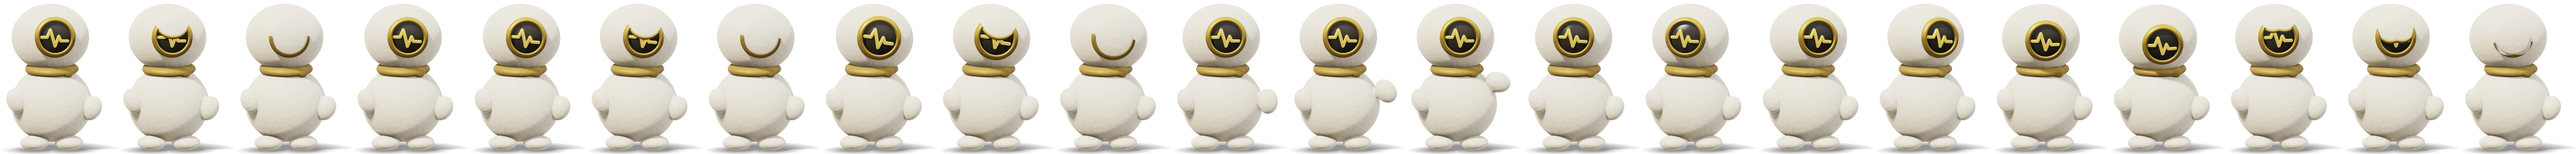
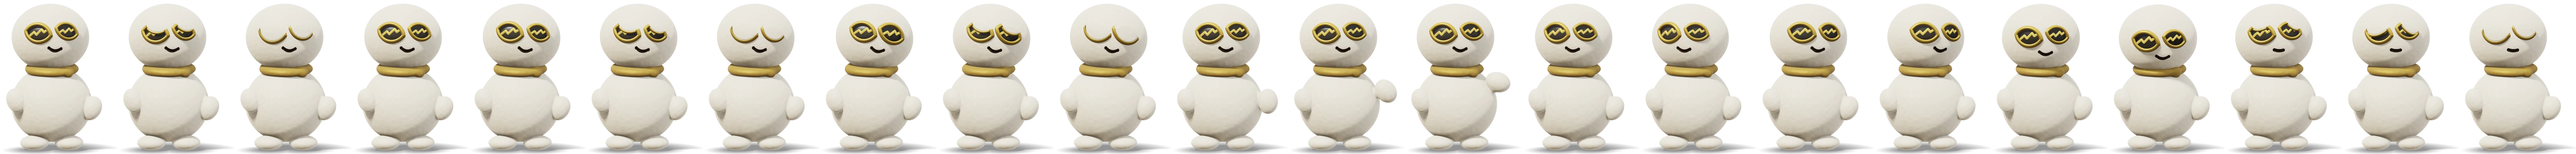
Scout: back to two eyes, and a clean concerned blink
The owner set the Pulse-mark face aside and asked for the two Optic-lens
eyes and smile again. The renderer defaults to that face (SCOUT_FACE=pulse
still reproduces 07e91b3) and the body sprites are re-rendered with it,
keeping the bigger hands and the separate scarf-tail layer, whose strips
are unchanged (--no-tail). The comments in scout.js, styles.css, the test
docstring and the README describe the two eyes again.

The concerned face's closed frame drew a broken lid: the worried slant
moved the lash line out of the lens at one tip (already so in 2deec49).
The slant now fades out over the last 40% of the closure, so a closed eye
is the plain lash line; the open and half-closed concerned frames are
pixel-identical. The renderer's header describes the v2 outputs.

Full suite 5,228 passed; behave2.py 41/41.

Changed region(s): [[0.0, 0.1158, 0.9375, 0.4053], [0.9688, 0.2026, 1.0, 0.2895], [0.9688, 0.3184, 1.0, 0.3763]]

diff --git a/static/components/scout.js b/static/components/scout.js
@@ -1,12 +1,13 @@
 /* Scout: Pulse's mascot.
  *
  * Concept 03 ("Scout") from the user's snowman sheet, rendered in 3D: two
- * ivory clay snowballs, a muted gold scarf blowing in the wind, stub arms and
- * feet, and for a face the Pulse mark itself, the ring and heartbeat on the
- * Pulse button, inset in gold (chosen by the owner over two Optic-lens eyes
- * and a smile). The renders are transparent frames, one sprite per size and
- * density (static/scout/, made by optic-brand/scout/render_scout.py, which
- * also writes frames.json, the order FRAME below copies). Every frame shares
+ * ivory clay snowballs, the Optic aperture inset as each eye with the logo's
+ * chart line raised inside it, a carved smile, a muted gold scarf blowing in
+ * the wind, stub arms and feet. (The Pulse mark was tried as his whole face
+ * and set aside for the two eyes.) The renders are transparent frames, one
+ * sprite per size and density (static/scout/, made by
+ * optic-brand/scout/render_scout.py, which also writes frames.json, the
+ * order FRAME below copies). Every frame shares
  * one camera and one light rig, so a blink or a turn is a change of picture,
  * never a stretched one.
  *
@@ -23,9 +24,9 @@
  * key), a question sent (one acknowledging wave, then thinking), a search the
  * server reports (a look around), the first words of the answer (stillness),
  * the end (a small nod), an error (a gentle concerned face). Between events
- * he blinks every 5-10 s (open, half, closed, half, open: a lid over the
- * ring), now and then twice, and, idle, now and then looks curious: the head
- * tilts and the ring opens a little wider. His scarf's tail flutters in the
+ * he blinks every 5-10 s (open, half, closed, half, open), now and then
+ * twice, and, idle, now and then looks curious: the head tilts and one eye
+ * opens a little wider. His scarf's tail flutters in the
  * wind while he is on screen with motion set to Full. Nothing he does says anything
  * about a market: no pose reads as up, down, sure or unsure, and the end of an
  * answer gets a nod, never a celebration.

diff --git a/static/styles.css b/static/styles.css
@@ -18565,8 +18565,8 @@ footer.legal > .legal-full {
 
 /* ================================================================ Scout ===
  *
- * Pulse's mascot, concept 03 from the user's sheet, as 3D renders with the
- * Pulse mark as his face: transparent sprites per size and density (order in
+ * Pulse's mascot, concept 03 from the user's sheet, as 3D renders:
+ * transparent sprites per size and density (order in
  * static/scout/frames.json, written by optic-brand/scout/render_scout.py).
  * components/scout.js picks the pose in response to Pulse's events; the only
  * loop here is the scarf in the wind, and it runs only when scout.js says.

diff --git a/optic-brand/scout/render_scout.py b/optic-brand/scout/render_scout.py
@@ -11,20 +11,14 @@ tilt changes only the pose.
 There is no Blender on the machine this was made on and the app has no build
 step, so the renderer is this file and its output is committed:
 
-    static/scout/scout-full.webp      12 frames, 216x281 each, one row
-    static/scout/scout-compact.webp   the same 12 poses, head and scarf only, 96x84
-    static/scout/scout.png            the resting pose at 4x, for reference
+    static/scout/scout-full@{2x,3x}.webp        the 22 poses in FRAMES, one row (288x380 at 3x)
+    static/scout/scout-compact@{2x,3x}.webp     the same poses as a bust (144x156 at 3x)
+    static/scout/scout-{full,compact}-tail@*.webp  the scarf's tail, WIND phases, drawn under the pose
+    static/scout/frames.json                    the frame order, which components/scout.js copies
+    static/scout/scout.png                      the resting pose with its tail, for reference
 
-Frame order is a contract with styles.css (the `--scout-f` positions):
-
-    0 idle open      1 idle half      2 idle closed
-    3 lean (2.5 deg)
-    4 think open     5 think half     6 think closed      (head at 5 deg)
-    7 curious open   8 curious half   9 curious closed    (8 deg, right eye wider)
-    10 wave low      11 wave high
-
-Run from the repository root:
-    .venv/bin/python optic-brand/scout/render_scout.py
+Run from the repository root (about 25 minutes with everything):
+    .venv/bin/python optic-brand/scout/render_scout.py [--no-tail] [--no-hero]
 """
 
 from __future__ import annotations
@@ -95,9 +89,10 @@ def vnoise(p):
 BODY_C, BODY_R = np.array([0.0, 0.80, 0.0]), np.array([0.72, 0.68, 0.64])
 HEAD_C, HEAD_R = np.array([-0.02, 1.99, 0.04]), np.array([0.69, 0.60, 0.62])
 NECK = np.array([0.0, 1.42, 0.0])
-# "pulse" is the face the app ships; "optic" (two Optic-lens eyes and a
-# smile) reproduces the first renders, commit 2deec49.
-FACE_STYLE = os.environ.get("SCOUT_FACE", "pulse")
+# "optic", two Optic-lens eyes and a smile, is the face the app ships: the
+# owner tried the Pulse mark as the whole face (07e91b3, SCOUT_FACE=pulse)
+# and asked for the two eyes back.
+FACE_STYLE = os.environ.get("SCOUT_FACE", "optic")
 SHOULDER = np.array([0.52, 0.98, 0.20])
 HAND_R = np.array([0.70, 0.74, 0.27])
 HAND_L = np.array([-0.60, 0.88, 0.38])
@@ -166,7 +161,10 @@ class Eye:
             # the face reads as concerned rather than raising one brow.
             low = -np.sqrt(np.maximum(self.R ** 2 - eu ** 2, 0))
             return low + self.h * (1 - self.closure) - abs(self.slant) * np.abs(eu)
-        return low + self.h * (1 - self.closure) + self.slant * eu
+        # The slant fades out over the last 40% of the closure: a fully closed
+        # eye is the plain lash line, since a slanted one runs out of the lens
+        # at one tip and left a broken lid on the concerned blink.
+        return low + self.h * (1 - self.closure) + self.slant * min(1.0, (1 - self.closure) / 0.4) * eu
 
     def trace_dist(self, eu, ev):
         best = None
@@ -217,9 +215,9 @@ class Pose:
         face = face or FACE_STYLE
         self.smile = face != "pulse"
         if face == "pulse":
-            # The Pulse mark as the whole face: its ring and heartbeat, the
-            # owner's choice (2026-10-11) over the two Optic eyes and smile.
-            # The curious look opens the ring a little wider.
+            # The Pulse mark as the whole face: its ring and heartbeat. Tried
+            # and set aside for the two eyes (2026-10-11); kept to reproduce
+            # 07e91b3. The curious look opens the ring a little wider.
             self.eyes = [Eye(9, -1, 0, 0.62 * (1.08 if wide else 1.0), max(cl, cr), slant=k * 0.8, ring=True)]
         else:
             self.eyes = [Eye(-20, 6, -10, 0.46, cl, slant=k),
@@ -591,7 +589,10 @@ def save_strip(frames, name, w, h):
 
 def main():
     jobs = [("full", i) for i in range(len(FRAMES))] + [("compact", i) for i in range(len(FRAMES))]
-    jobs += [("full-tail", i) for i in range(WIND)] + [("compact-tail", i) for i in range(WIND)]
+    # The tail layer holds the body out but none of the face, so a change of
+    # face alone can keep the committed tail strips: --no-tail.
+    if "--no-tail" not in sys.argv:
+        jobs += [("full-tail", i) for i in range(WIND)] + [("compact-tail", i) for i in range(WIND)]
     if "--no-hero" not in sys.argv:
         jobs.append(("hero", 0))
     os.makedirs(OUT, exist_ok=True)
@@ -603,6 +604,8 @@ def main():
     n = len(FRAMES)
     for kind, (_, (w3, h3)), count in (("full", FULL, n), ("compact", COMPACT, n),
                                        ("full-tail", FULL, WIND), ("compact-tail", COMPACT, WIND)):
+        if (kind, 0) not in out:
+            continue
         frames3 = [out[(kind, i)] for i in range(count)]
         if kind.startswith("compact"):
             frames3 = [fade_bottom(f) for f in frames3]

diff --git a/tests/test_pulse_scout.py b/tests/test_pulse_scout.py
@@ -5,7 +5,8 @@ Asked for on 2026-10-11 with the user's own concept sheet (concept 03,
 renders, a bigger welcome figure, and motion tied to Pulse's real events
 (the panel opening, typing, a question sent, a search the server reports,
 the answer streaming, its end, an error) instead of a loop of its own. Then:
-the Pulse mark as his face, larger hands, and his scarf in the wind.
+larger hands and his scarf in the wind (the Pulse mark was tried as his face
+and set aside for the two eyes).
 Presentation only: nothing here may touch what Pulse sends, streams or costs.
 
 The renders are committed sprites (static/scout/) made by

diff --git a/optic-brand/scout/README.md b/optic-brand/scout/README.md
@@ -6,9 +6,9 @@ this folder holds what made them.
 
 `render_scout.py` builds Scout as a signed-distance scene and ray-marches it
 in numpy (there is no Blender on the machine and the app has no build step).
-His face is the Pulse mark (the ring and heartbeat on the Pulse button) inset
-in gold; `SCOUT_FACE=optic` reproduces the earlier two Optic-lens eyes and
-smile (commit 2deec49). The render has matte clay grain fixed to each part,
+His face is two Optic-lens eyes, the logo's chart line in each, and a carved
+smile; `SCOUT_FACE=pulse` renders the Pulse-mark face that was tried and set
+aside (commit 07e91b3). The render has matte clay grain fixed to each part,
 a key light, a fill, a hemisphere sky, soft shadows and ambient occlusion. Every frame shares one camera and one
 light rig, so a blink, a turn or a wave changes only the pose. It writes:
 
